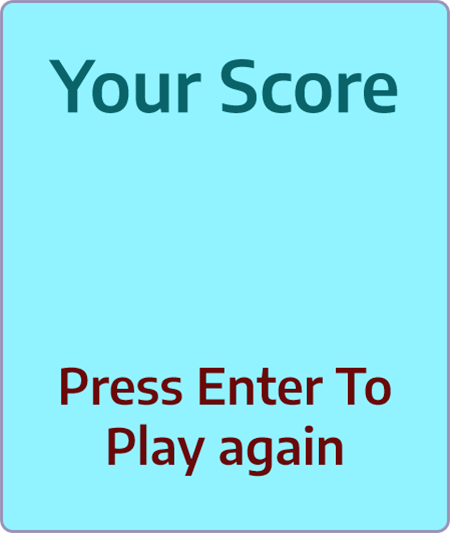
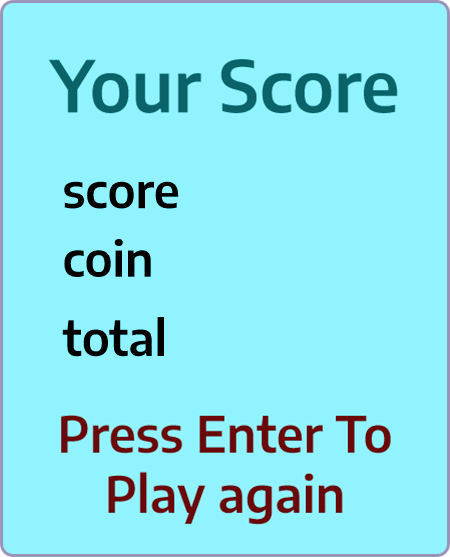
add Coin and finsh

diff --git a/core/src/com/manescapeafire/chanchai/WorldGame.java b/core/src/com/manescapeafire/chanchai/WorldGame.java
@@ -3,10 +3,12 @@ package com.manescapeafire.chanchai;
 import com.badlogic.gdx.Gdx;
 import com.badlogic.gdx.Input.Keys;
 import com.badlogic.gdx.graphics.g2d.BitmapFont;
+import com.badlogic.gdx.math.Intersector;
 
 public class WorldGame {
 	private Player player;
 	private Box [][]box = new Box[13][10];//[y][x]
+	private Coin [][]coin = new Coin[13][10];
 	public GameFireMan game;
 	private float SPEEDSCROLL = 1;
 	private int nextIndexChangeBox = 0;
@@ -14,11 +16,14 @@ public class WorldGame {
 	private BitmapFont scoreText = new BitmapFont();
 	private Fire fire;
 	private float score = 0;
+	private int numberOfCoin = 0;
 	private Wall [][]wall = new Wall[6][4];
 	private float delta;
 	private int status = 0; //0start 1game 2score
 	private ScoreBoard scoreBoard;
-	private BitmapFont scoreBoardText = new BitmapFont();
+	private BitmapFont scoreBoardText1 = new BitmapFont();
+	private BitmapFont scoreBoardText2 = new BitmapFont();
+	private BitmapFont scoreBoardText3 = new BitmapFont();
 	private Welcome welcome;
 	public WorldGame(GameFireMan game) {
 		this.game = game;
@@ -28,10 +33,15 @@ public class WorldGame {
 		welcome = new Welcome(this,145,88);
 		generateBox();
 		generateWall();
+		generateCoin();
 		scoreText.setColor(0, 0, 0, 1);
 		scoreText.getData().setScale(1.5f);
-		scoreBoardText.setColor(0, 0, 0, 1);
-		scoreBoardText.getData().setScale(5f);
+		scoreBoardText1.setColor(0, 0, 0, 1);
+		scoreBoardText1.getData().setScale(2.5f);
+		scoreBoardText2.setColor(0, 0, 0, 1);
+		scoreBoardText2.getData().setScale(2.5f);
+		scoreBoardText3.setColor(0, 0, 0, 1);
+		scoreBoardText3.getData().setScale(2.5f);
 	}
 	public void update() {
 		if(status == 1) {
@@ -60,6 +70,13 @@ public class WorldGame {
 	}
 	private void autoUpdate() {
 		clearScreenAndRegenerate();
+		for(int i = 0 ;i<13 ;i++) {
+			for(int j = 0; j < 10;j++) {
+				if(coin[i][j] != null) {
+					coin[i][j].update();
+				}
+			}
+		}
 		if(player.isGameOver()) {
 			status = 2;
 		}
@@ -69,27 +86,50 @@ public class WorldGame {
 			player.setSpeed(player.getSpeed()+delta/40);
 			player.setJUMPFORCE(player.getJUMPFORCE()+delta/10);
 		}
+		for(int i = 0 ;i<13 ;i++) {
+			for(int j = 0; j < 10;j++) {
+				if(coin[i][j] != null) {
+					if(Intersector.overlaps(player.rectangle,coin[i][j].rectangle)) {
+						coin[i][j] = null;
+						numberOfCoin++;
+					}
+				}
+			}
+		}
 	}
 	public void render() {
 		wallRender();
 		boxRender();
+		coinRender();
 		player.render();
 		fire.render();
 		if(status == 0) {
 			welcome.render();
 		}
 		if(status == 1) {
-			scoreText.draw(game.batch, "Score : "+String.format("%.0f", score), 595, 40);
+			scoreText.draw(game.batch, "Coin : "+ String.valueOf(numberOfCoin) +"     Score : "+String.format("%.0f", score), 495, 40);
 		}
 		if(status == 2) {
 			scoreBoard.render();
-			scoreBoardText.draw(game.batch,String.format("%.0f", score), 290, 500);
+			scoreBoardText1.draw(game.batch,String.format("%.0f", score), 420, 561);
+			scoreBoardText2.draw(game.batch,String.valueOf(numberOfCoin)+" X 10", 420, 493);
+			scoreBoardText3.draw(game.batch,String.format("%.0f", score+numberOfCoin*10), 420, 416);
 		}
 	}
 	private void screenScroll() {
 		scrollAllBox(SPEEDSCROLL);
 		scrollAllWall(SPEEDSCROLL);
+		scrollAllCoin(SPEEDSCROLL);
 		player.screenScroll(SPEEDSCROLL);
+	}
+	private void scrollAllCoin(float speed) {
+		for(int i = 0 ;i<13 ;i++) {
+			for(int j = 0; j < 10;j++) {
+				if(coin[i][j] != null) {
+					coin[i][j].screenScroll(speed);
+				}
+			}
+		}
 	}
 	private void scrollAllWall(float speed) {
 		for(int i = 0; i < 6; i++) {
@@ -118,10 +158,12 @@ public class WorldGame {
 		if(yOfBox+Box.WIDTH < 0) {
 			if(nextIndexChangeBox == 0) {
 				box[nextIndexChangeBox] = generateBoxLine(box[12]);
+				generateCoinLine(12);
 				nextIndexChangeBox += 1;
 			}
 			else {
 				box[nextIndexChangeBox] = generateBoxLine(box[nextIndexChangeBox-1]);
+				generateCoinLine(nextIndexChangeBox-1);
 				if(nextIndexChangeBox == 12) {
 					nextIndexChangeBox = 0;
 				}
@@ -148,6 +190,15 @@ public class WorldGame {
 				}
 				else {
 					nextIndexChangeWall += 1;
+				}
+			}
+		}
+	}
+	private void coinRender() {
+		for(int i = 0 ;i<13 ;i++) {
+			for(int j = 0; j < 10;j++) {
+				if(coin[i][j] != null) {
+					coin[i][j].render();
 				}
 			}
 		}
@@ -184,6 +235,18 @@ public class WorldGame {
 		}
 		box[4][4] = new Box(this, Box.WIDTH*4, Box.HEIGH*2*4); //staring place that player stand
 		box[4][5] = new Box(this, Box.WIDTH*5, Box.HEIGH*2*4); //staring place that player stand
+	}
+	private void generateCoin() {
+		for(int i = 0; i<13; i++) {
+			generateCoinLine(i);
+		}
+	}
+	private void generateCoinLine(int index) {
+		for(int j = 0; j<10; j++) {
+			if(box[index][j] != null && Math.random() > 0.5) {
+					coin[index][j] = new Coin(this, box[index][j].getX()+(Box.WIDTH-Coin.WIDTH)/2, box[index][j].getY()+Box.HEIGH+1);
+			}
+		}
 	}
 	public Box[] generateBoxLine(Box[] down) {
 		Box[] next = new Box[10];

diff --git a/core/src/com/manescapeafire/chanchai/Player.java b/core/src/com/manescapeafire/chanchai/Player.java
@@ -4,6 +4,7 @@ import com.badlogic.gdx.Gdx;
 import com.badlogic.gdx.Input.Keys;
 import com.badlogic.gdx.graphics.Texture;
 import com.badlogic.gdx.graphics.g2d.*;
+import com.badlogic.gdx.math.Rectangle;
 import com.badlogic.gdx.math.Vector2;
 import com.badlogic.gdx.utils.Array;
 
@@ -12,6 +13,7 @@ public class Player {
 	private Texture []img = new Texture[4];//0standR 1stanL 2jumpR 3jumpL
 	private int status; //use for show texture;
 	private static final int WIDTH = 72;
+	private static final int HEIGH = 129;
 	private final int LEFT = -1;
 	private final int RIGHT = 1;
 	private float speed = 5;
@@ -28,6 +30,7 @@ public class Player {
 	private final Animation runningAnimationL;
 	private float elapsed_time = 0f;
 	private float FRAME_DURATION = 0.15f;
+	public Rectangle rectangle;
 	public Player(WorldGame world, float x, float y) {
 		this.world = world;
 		setStatus(0);
@@ -36,6 +39,7 @@ public class Player {
 		isOnAir = false;
 		startJump = false;
 		pos = new Vector2(x, y);
+		rectangle = new Rectangle(pos.x ,pos.y, WIDTH, HEIGH);
 		/////////////import all texture
 		imageLoad();
 		TextureAtlas runningR = new TextureAtlas(Gdx.files.internal("walkR.atlas"));
@@ -116,6 +120,7 @@ public class Player {
 		}
 	}
 	private void autoUpdate() {
+		rectangle.setPosition(pos.x, pos.y);
 		if(pos.x > (GameFireMan.WIDTH-Box.WIDTH)) {
 			pos.x = (GameFireMan.WIDTH-Box.WIDTH);
 		}

diff --git a/core/src/com/manescapeafire/chanchai/Coin.java b/core/src/com/manescapeafire/chanchai/Coin.java
@@ -1,0 +1,18 @@
+package com.manescapeafire.chanchai;
+
+import com.badlogic.gdx.graphics.Texture;
+import com.badlogic.gdx.math.Rectangle;
+
+public class Coin extends Wall{
+	public static final int WIDTH = 35;
+	public static final int HEIGH = 35;
+	public Rectangle rectangle;
+	public Coin(WorldGame world, float x, float y) {
+		super(world,x,y);
+		rectangle = new Rectangle(pos.x ,pos.y, WIDTH, HEIGH);
+		img = new Texture("coin.png");
+	}
+	public void update() {
+		rectangle.setPosition(pos.x, pos.y);
+	}
+}

diff --git a/core/src/com/manescapeafire/chanchai/Wall.java b/core/src/com/manescapeafire/chanchai/Wall.java
@@ -23,6 +23,9 @@ public class Wall {
 	public float getY() {
 		return pos.y;
 	}
+	public float getX() {
+		return pos.x;
+	}
 	public void setY(float y) {
 		pos.y = y;
 	}
